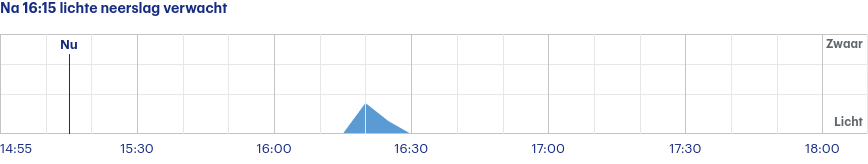
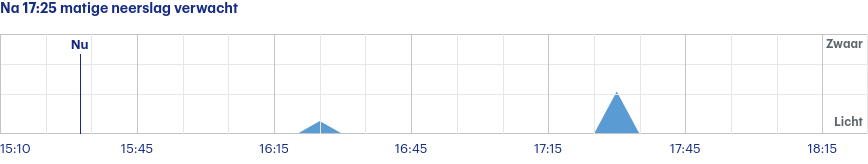
Latest scraping buienradar: Sat Jul 15 13:28:25 UTC 2023

diff --git a/scrapes/buienradar/buienradar-jette-3-uur.md b/scrapes/buienradar/buienradar-jette-3-uur.md
@@ -1,4 +1,4 @@
-Na 16:15 lichte neerslag verwacht
+Na 17:25 matige neerslag verwacht
 
 ![](buienradar-jette-3-uur.png)
 
